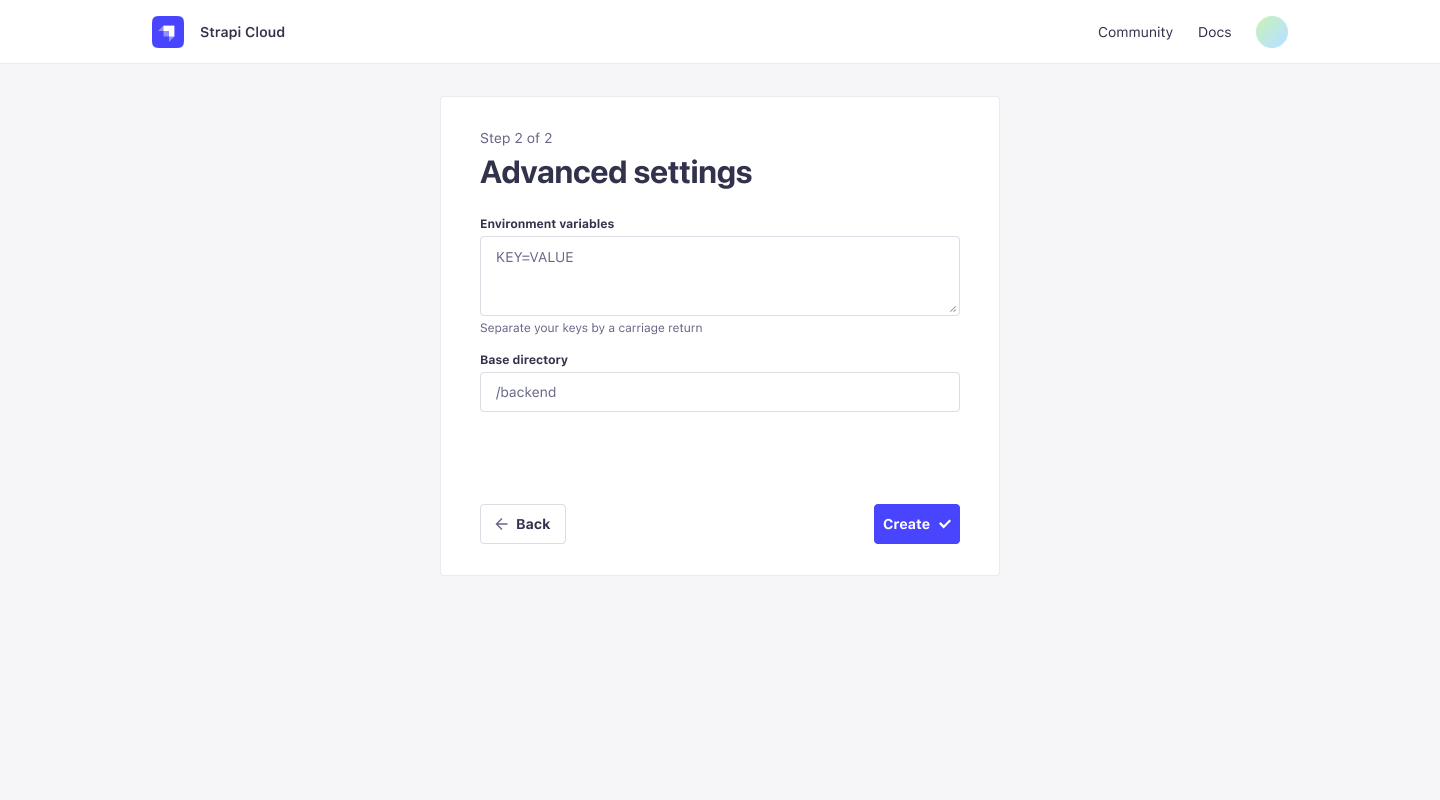
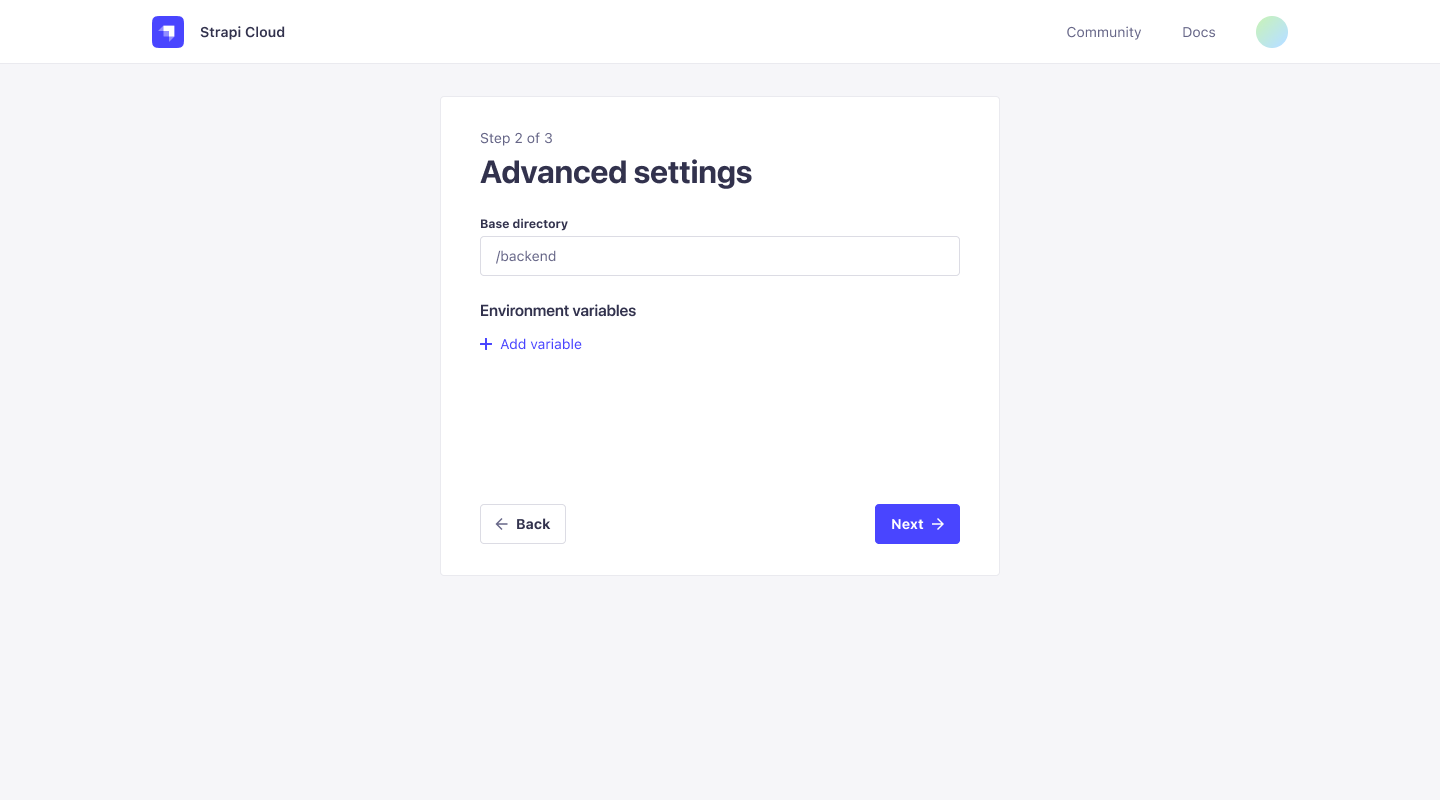
Update creation flow for billing

diff --git a/docs/developer-docs/latest/setup-deployment-guides/deployment/strapi-cloud.md b/docs/developer-docs/latest/setup-deployment-guides/deployment/strapi-cloud.md
@@ -23,7 +23,7 @@ Onboarding of users will be done in batches. You will be notified via email when
 
 Before you can deploy your Strapi application on Strapi Cloud, you need to have the following prerequisites:
 
-* Strapi version `4.4.x` or higher
+* Strapi version `4.6.x` or higher
 * Database: Project must be compatible with PostgreSQL. Use of any external database is not supported.
 * Project(s) source code hosted on [GitHub](https://github.com)
     * The connected repository can contain multiple Strapi applications. Each Strapi app must be in a separate directory.
@@ -34,11 +34,13 @@ Importing data from an existing Strapi application and data backups for a Strapi
 
 ## Getting started
 
-1. Navigate to the [Strapi Cloud](https://cloud.strapi.io) login page.
+1. Navigate to the [Strapi Cloud](https://cloud.strapi.io) home page. A welcome page is displayed, providing a link to the terms of service and prompting you to **Start free trial** to continue.
 
-    ![Strapi Cloud login page](../assets/deployment/cloud/login.png)
+    ![Strapi Cloud welcome page](../assets/deployment/cloud/welcome-screen.png)
 
 2. You are prompted to **Log In with GitHub**. Your Strapi Cloud account is created during this initial login.
+
+    ![Strapi Cloud login page](../assets/deployment/cloud/login.png)
 
 3. Once logged in, you will be redirected to the Strapi Cloud **Projects** page. From here you can create your first Strapi Cloud project.
 
@@ -66,12 +68,20 @@ Importing data from an existing Strapi application and data backups for a Strapi
     ![Project Setup](../assets/deployment/cloud/setup.png)
 
 4. (**Optional**) Select **Show Advanced Settings** to configure the following options:
-    * [**Environment variables**](../configurations/optional/environment.md): Environment variables are used to configure your Strapi app.
     * **Base directory**: The directory where your Strapi app is located in the repository. This is useful if you have multiple Strapi apps in the same repository or if you have a monorepo.
-
+    * **Environment variables**: Use the **Add variable** button to add any custom [environment variables](../configurations/optional/environment.md) values to configure your Strapi app.
+    
     ![Advanced Setup](../assets/deployment/cloud/advanced.png)
 
-5. Click **Create** to finalize the project creation. An initial deployment is triggered and you are redirected to the **Projects** page.
+5. Click **Next** to proceed to the **Payment and billing** page. Enter the corresponding billing details.
+
+    ::: tip
+    This is for verification purposes only. You will not be charged during the Beta release, or without notice.
+    :::
+
+    ![Payment and billing](../assets/deployment/cloud/billing-info.png)
+
+6. Click **Create** to finalize the project creation. An initial deployment is triggered and you are redirected to the **Projects** page.
 
 ## Managing projects
 
@@ -122,12 +132,25 @@ From this page you can also trigger a new deployment and access the application 
 
 ### Settings
 
-The **Settings** tab enables you to edit the following details for the project:
+The **Settings** tab contains two sections: **General** and **Billing**.
+
+#### General
+
+The **General** section enables you to edit the following details for the project:
 
 * **Project name**: The name of your Strapi app, used to identify the project on the Cloud Dashboard, Strapi CLI, and deployment URLs.
 * **Production branch**: The branch of the linked repository to use for production deployments.
-* **Environment variables**: Environment variables are used to configure the environment of your Strapi app.
+* **Base directory**: The directory where your Strapi app is located in the repository. This is useful if you have multiple Strapi apps in the same repository or if you have a monorepo.
 * **Connected GitHub repository**: The Git repository linked to the project.
+* **Environment variables**: Environment variables are used to configure the environment of your Strapi app.
 * **Delete project**: This will ***permanently and irreversibly*** delete the project and all its associated data.
 
-![Project settings](../assets/deployment/cloud/settings.png)
+![Project settings](../assets/deployment/cloud/settings-general.png)
+
+#### Billing
+
+The **Billing** section displays the current subscription plan and included usage for the project.
+
+Use the **Manage subscription** button to change the subscription plan.
+
+![Project billing](../assets/deployment/cloud/settings-billing.png)
